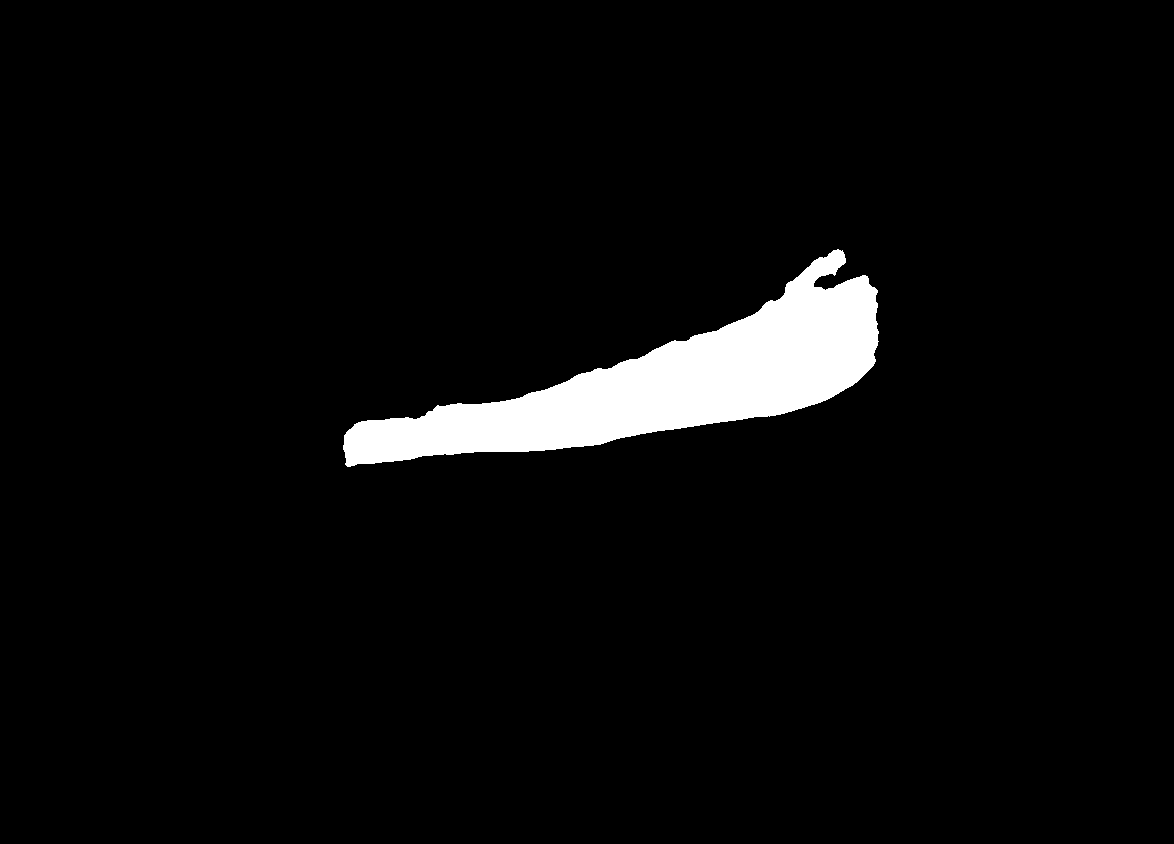
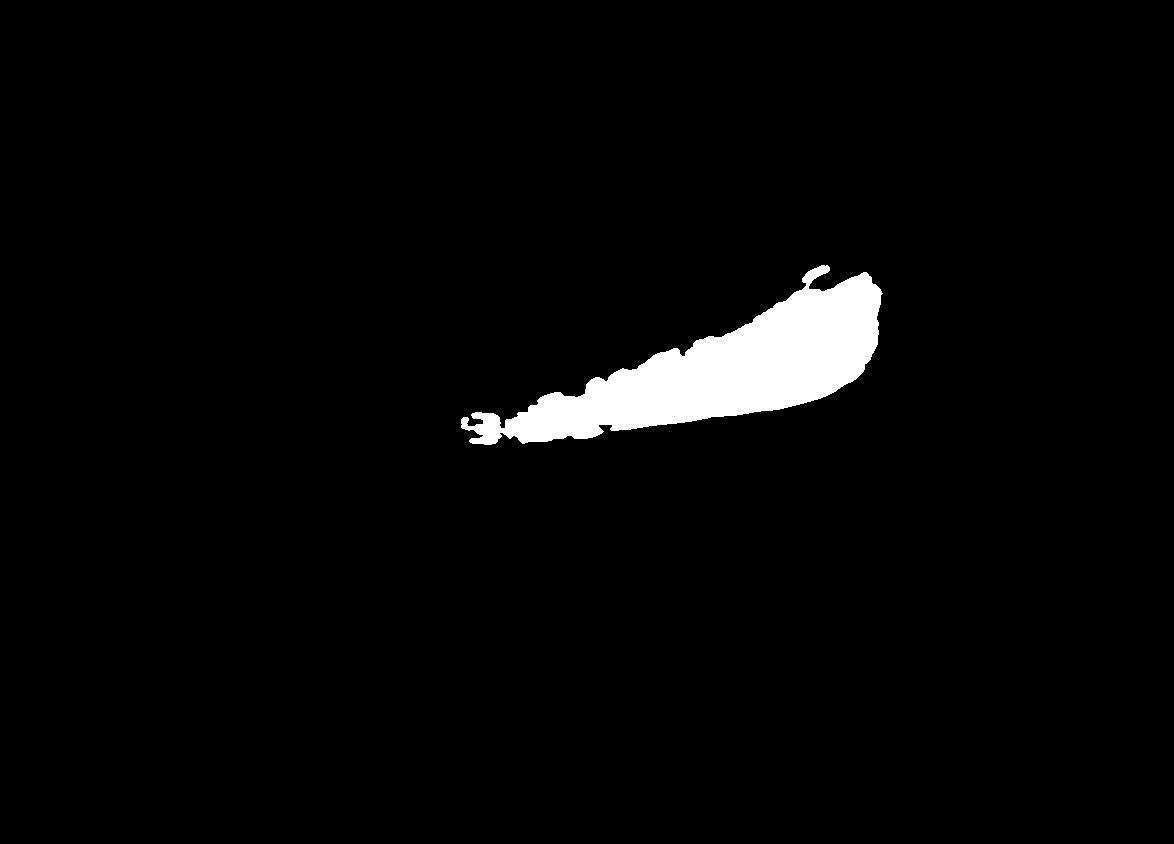
Final... after hyperparameter tuning

diff --git a/gen_det.py b/gen_det.py
@@ -1,0 +1,94 @@
+#Import the necessary functions
+import cv2
+import numpy as np
+import os
+import argparse
+
+
+def get_gall_bladder(source_of_image, final_destination):
+    
+    #print(source_of_image)
+    #print(final_destination)
+    
+    source_img = cv2.imread(source_of_image, 0)
+    
+    #print(type(source_of_image))
+    
+    gauss = source_img.copy()
+    bilateral = source_img.copy()
+
+    N = 100
+    for i in range(N):
+        gauss = cv2.GaussianBlur(gauss, (3, 3), 0)
+
+    for i in range(N):
+        bilateral = cv2.bilateralFilter(bilateral, 3, 5, 5)
+
+    ## Adaptive thresholding
+    adaptive_thresh_gauss = cv2.adaptiveThreshold(gauss, 255, cv2.ADAPTIVE_THRESH_GAUSSIAN_C, cv2.THRESH_BINARY_INV, 399, 1)
+    ## Best at (399, 1)
+    
+    adaptive_thresh_bilateral = cv2.adaptiveThreshold(bilateral, 255, cv2.ADAPTIVE_THRESH_GAUSSIAN_C, cv2.THRESH_BINARY_INV, 495, 19)
+    ## Best at (495, 19)
+
+    _ , ostu_gauss = cv2.threshold(gauss, 0, 255, cv2.THRESH_BINARY_INV + cv2.THRESH_OTSU)
+    _ , ostu_bilateral = cv2.threshold(bilateral, 0, 255, cv2.THRESH_BINARY_INV + cv2.THRESH_OTSU)
+
+    ## Adaptive thresholding technique does better in identifying the regions of the gall bladder, whereas Ostu's binarization gives sharper regions
+    ## We take their intersection to get the best region.
+
+    gaussian_and = cv2.bitwise_and(adaptive_thresh_gauss, ostu_gauss)
+    bilateral_and = cv2.bitwise_and(adaptive_thresh_bilateral, ostu_bilateral)
+
+    overall_and = cv2.bitwise_and(gaussian_and, bilateral_and)
+
+    ## Visually, the overall_and seems the best
+
+    laplace = cv2.Laplacian(overall_and, -1, 3)
+
+    ## Find all the contours generated by the laplacian
+    contours, hierarchy = cv2.findContours(laplace.copy(),cv2.RETR_EXTERNAL, cv2.CHAIN_APPROX_NONE)
+
+    ## Go through all the contours, calculate their area and find the contour with maximum area in a range.
+    ## The range is determined by the size of the input image.
+    m = -1
+    max_area = -1
+    for i, cont in enumerate(contours):
+        area = cv2.contourArea(cont)
+        if((area > max_area) and (area < 0.1*source_img.size)):
+            max_area = area
+            m = i
+
+    ## draw the contour found[Gall bladder] on a blank canvas. Fill the entire contour
+    mask = np.zeros(source_img.shape+(3, ), dtype='uint8')
+    cv2.drawContours(mask, [contours[m]], -1, (255,255,255), -1)
+
+    cv2.imwrite(final_destination, mask)
+
+    
+##Main Method
+if __name__ == "__main__":
+    
+    #Describing command line usage
+    parser = argparse.ArgumentParser(description = 'Script for generating segmentation mask of gall bladder images')
+    parser.add_argument('-i', '--img_path', type = str, default = 'img', required = True, help = "Path to the image folder")
+    parser.add_argument('-d', '--det_path', type = str, default = 'val_masks', required = True, help = "Path to the folder where mask will be stored")
+    
+    #Parsing folder in which image is contained and the destination folder where the image has to be stored
+    args = parser.parse_args()
+    src_folder =  args.img_path
+    dst_folder  = args.det_path
+    
+    #All the images in the source directory
+    src_files = os.listdir(src_folder)
+    
+    #If the destination directory doesn't exist then create it
+    if not os.path.exists(dst_folder):
+        os.makedirs(dst_folder)
+        
+    #Generate mask for all the imput images
+    for src_file in src_files:
+        file = src_file[:-4] + ".png"
+        get_gall_bladder(src_folder+src_file, dst_folder+file)
+        
+    print("Done!")
